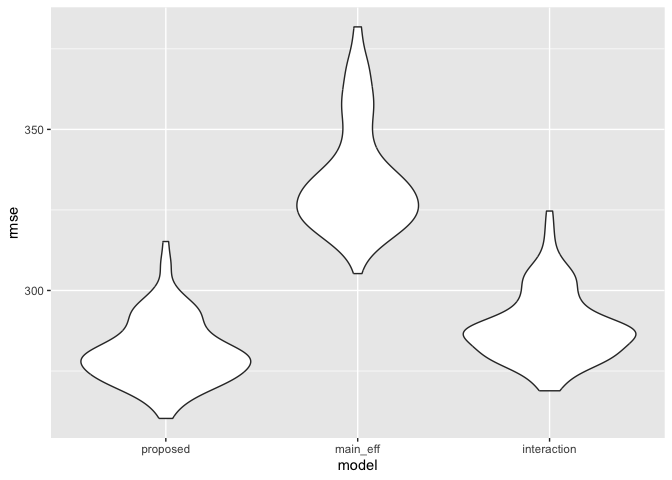
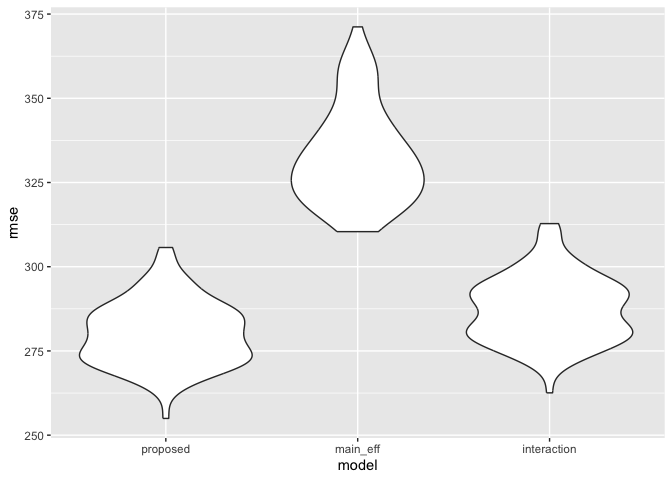
fix

diff --git a/p8105_hw6_zn2220.md b/p8105_hw6_zn2220.md
@@ -282,16 +282,16 @@ print(boot_results)
     ## # A tibble: 10,000 × 3
     ##    .id   term      estimate
     ##    <chr> <chr>        <dbl>
-    ##  1 0001  r.squared  0.948  
-    ##  2 0001  beta_prod -0.00773
-    ##  3 0002  r.squared  0.940  
-    ##  4 0002  beta_prod -0.00730
-    ##  5 0003  r.squared  0.942  
-    ##  6 0003  beta_prod -0.00499
-    ##  7 0004  r.squared  0.940  
-    ##  8 0004  beta_prod -0.00536
-    ##  9 0005  r.squared  0.939  
-    ## 10 0005  beta_prod -0.00684
+    ##  1 0001  r.squared  0.941  
+    ##  2 0001  beta_prod -0.00643
+    ##  3 0002  r.squared  0.941  
+    ##  4 0002  beta_prod -0.00631
+    ##  5 0003  r.squared  0.943  
+    ##  6 0003  beta_prod -0.00751
+    ##  7 0004  r.squared  0.936  
+    ##  8 0004  beta_prod -0.00455
+    ##  9 0005  r.squared  0.945  
+    ## 10 0005  beta_prod -0.00778
     ## # ℹ 9,990 more rows
 
 ## Plot the distribution of your estimates, and describe these in words.
@@ -347,8 +347,8 @@ knitr::kable(ci_results)
 
 | term      |   ci_lower |   ci_upper |
 |:----------|-----------:|-----------:|
-| beta_prod | -0.0082030 | -0.0036743 |
-| r.squared |  0.9343946 |  0.9467295 |
+| beta_prod | -0.0082628 | -0.0036844 |
+| r.squared |  0.9342782 |  0.9468756 |
 
 - beta_prod (Significant Negative Effect):  
   The 95% confidence interval for
@@ -465,9 +465,11 @@ shows:
 
 - Main Effects Model (Length + Gestational Age): This model has the
   highest RMSE (distribution centered above 325), indicating it has the
-  poorest predictive performance among the three. \* Interaction Model
-  (Head + Length + Sex interactions): This model performs significantly
-  better than the main effects model, with a lower RMSE distribution .
+  poorest predictive performance among the three.
+
+- Interaction Model (Head + Length + Sex interactions): This model
+  performs significantly better than the main effects model, with a
+  lower RMSE distribution .
 
 - Proposed Model: My proposed model, which includes a broader range of
   predictors (including mother’s weight gain, smoking habits, etc.),
